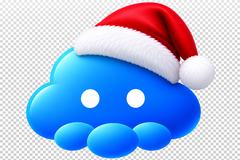
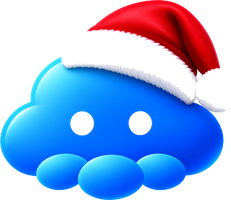
fix: nube ClauNet con fondo transparente real + tamaño 160px
- Remueve fondo gris/blanco del PNG por remoción de color
- Esquinas alpha=0 verificado, 231x200px RGBA
- Aumenta display a 160px de ancho en CSS

Claude-Session: https://claude.ai/code/session_01B7Vf9owTFc3qRHFUmS72Ft

diff --git a/index.html b/index.html
@@ -278,7 +278,7 @@ html,body{min-height:100vh;font-family:var(--font);background:var(--bg);color:va
 /* Hero title */
 .home-hero{text-align:center;padding:28px 0 4px;width:100%}
 .home-hero-logo{
-  width:120px;height:auto;
+  width:160px;height:auto;
   animation:float 4s ease-in-out infinite;
   filter:drop-shadow(0 6px 20px rgba(0,100,255,.25));
   margin-bottom:2px;display:block;margin-left:auto;margin-right:auto}
